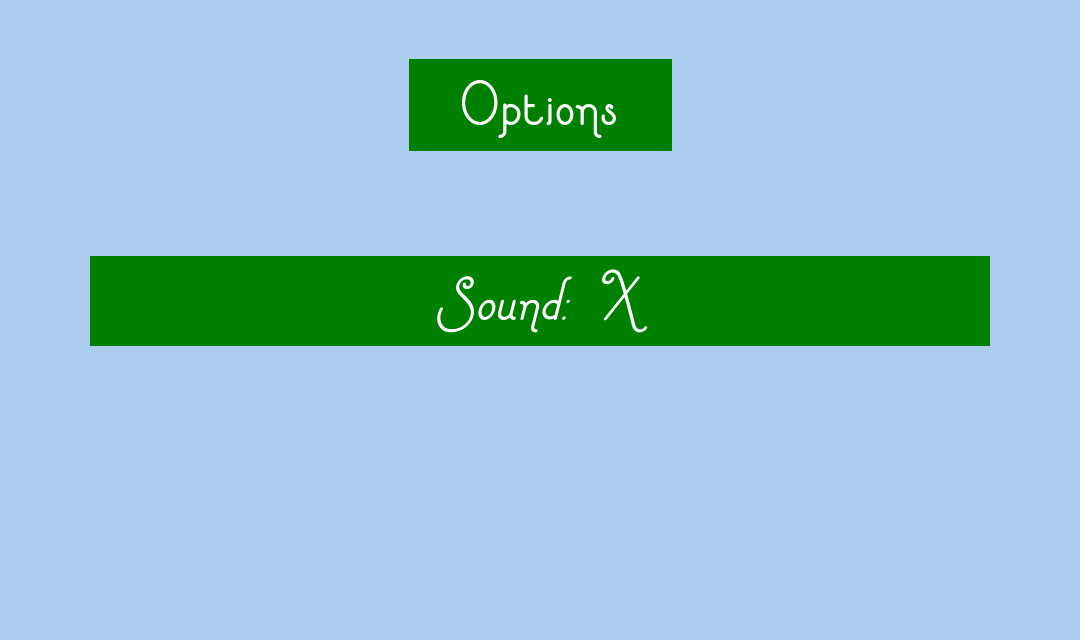
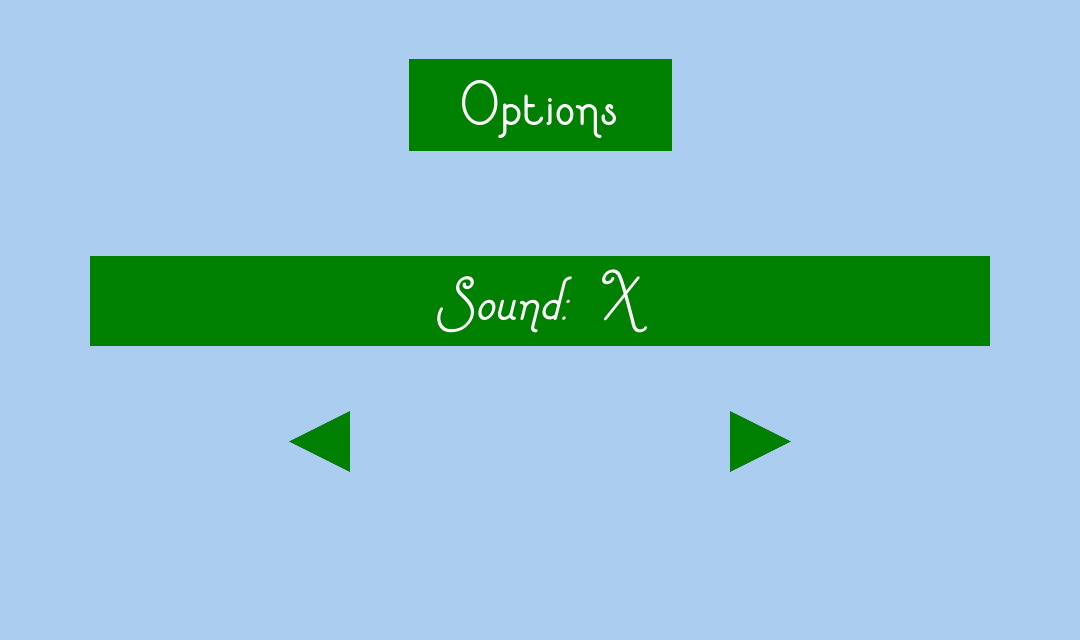
add skins

Changed region(s): [[0.6722, 0.625, 0.7333, 0.75], [0.275, 0.625, 0.3361, 0.75]]

diff --git a/Mice-Eat-Cats.cpp b/Mice-Eat-Cats.cpp
@@ -52,13 +52,16 @@ ALLEGRO_SAMPLE* gameMusic = NULL;
 ALLEGRO_EVENT_QUEUE* event_queue = NULL;
 ALLEGRO_TIMER* timer = NULL;
 
+// Change as The Number of Available Skins Goes Up
+int numSkins = 2;
+
 // Level One Map
 int levelOneMapHor[] = {
-	0
+	4020, 4020, 4020
 };
 
 int levelOneMapVer[] = {
-	0
+	211, 371, 531
 };
 
 int levelOneMapHorHor[] = {
@@ -77,7 +80,7 @@ int levelOneMapHorHorWidth[] = {
 
 int levelTwoMapHor[] = {
 	1080, 1080, 1080, 1080,
-	0, 0, 0, 0
+	-10, -10, -10, -10
 };
 
 int levelTwoMapVer[] = {
@@ -119,9 +122,10 @@ int levelThreeMapHorHorWidth[] = {
 };
 
 int level = 0;
+int skin = 1;
 int numSamples = 1;
 int mouseFrames = 0;
-int levelProgress = 300;
+int levelProgress = 600;
 int numbackgroundPassed = 0;
 bool mouse1 = false;
 float mouseX = -550;
@@ -153,7 +157,7 @@ int redrawFade(ALLEGRO_BITMAP* image, float fadeTransparency)
 	return 0;
 }
 
-int fade(ALLEGRO_BITMAP* image, int framesUpTo312, bool trueForOutFalseForIn, int totalLength, bool levelFade = false)
+int fade(ALLEGRO_BITMAP* image, int framesUpTo312, bool trueForOutFalseForIn, int totalLength, bool levelFade = false, bool optionsFade = false)
 {
 	int frames = 0;
 	float fadeTransparency = 0.0f;
@@ -176,7 +180,13 @@ int fade(ALLEGRO_BITMAP* image, int framesUpTo312, bool trueForOutFalseForIn, in
 				return 0;
 				break;
 			case ALLEGRO_EVENT_TIMER:
-				if (levelFade) {
+				if (optionsFade) {
+					al_draw_bitmap(image, 0, 0, 0);
+					al_draw_bitmap(smallmouse, 390, 411, 0);
+					al_draw_filled_rectangle(0, 0, 1080, 640, al_map_rgba_f(0, 0, 0, fadeTransparency));
+					al_flip_display();
+				}
+				else if (levelFade) {
 					al_draw_bitmap(levelBackground[level], backgroundX, 0, 0);
 					if (backgroundX <= -1 && level != 1) {
 						al_draw_bitmap(levelBackground[level], backgroundX + 1080, 0, 0);
@@ -286,7 +296,54 @@ int check_for_restart_gamemusic()
 	return 0;
 }
 
-bool checkLevel()
+int checkSkin()
+{
+	fstream openfile(user + "\\skin.txt", fstream::in);
+	int text;
+	openfile >> text;
+	openfile.close();
+	skin = text;
+	return 0;
+}
+
+int changeSkin(bool trueForPostFalseForPre)
+{
+	fstream file(user + "\\skin.txt", fstream::out);
+	if (trueForPostFalseForPre == true) {
+		if (skin + 1 > numSkins) {
+			skin = 1;
+		}
+		else {
+			skin += 1;
+		}
+	}
+	else {
+		if (skin - 1 < 1) {
+			skin = numSkins;
+		}
+		else {
+			skin -= 1;
+		}
+	}
+
+	file << skin;
+
+	file.close();
+
+	char fileName[25];
+	sprintf_s(fileName, "smallmouse%d.png", skin);
+	smallmouse = al_load_bitmap(fileName);
+	sprintf_s(fileName, "smallmouse1%d.png", skin);
+	smallmouse1 = al_load_bitmap(fileName);
+	sprintf_s(fileName, "backsmallmouse%d.png", skin);
+	backsmallmouse = al_load_bitmap(fileName);
+	sprintf_s(fileName, "backsmallmouse1%d.png", skin);
+	backsmallmouse1 = al_load_bitmap(fileName);
+
+	return 0;
+}
+
+int checkLevel()
 {
 	fstream openfile(user + "\\level.txt", fstream::in);
 	int text;
@@ -305,7 +362,7 @@ int changeLevel()
 	return 0;
 }
 
-bool checkSound()
+int checkSound()
 {
 	fstream openfile(user + "\\sound.txt", fstream::in);
 	char text;
@@ -322,7 +379,7 @@ bool checkSound()
 	return 0;
 }
 
-bool checkUser()
+int checkUser()
 {
 	for (int x = 0; userVal[x] != NULL; ++x) {
 		user += userVal[x];
@@ -421,6 +478,7 @@ int drawOptions()
 	else {
 		al_draw_bitmap(optionsxbck, 0, 0, 0);
 	}
+	al_draw_bitmap(smallmouse, 390, 411, 0);
 	if (waitingFoot == false) {
 		al_draw_bitmap(foot, 0, footY, 0);
 		if (footY > 507) {
@@ -438,10 +496,10 @@ int options()
 	bool mouse_button_1 = false;
 
 	if (!optionsx) {
-		fade(optionsybck, 0, false, 39);
+		fade(optionsybck, 0, false, 39, false, true);
 	}
 	else {
-		fade(optionsxbck, 0, false, 39);
+		fade(optionsxbck, 0, false, 39, false, true);
 	}
 
 	while (inOptions) {
@@ -469,13 +527,19 @@ int options()
 				if (state.x >= 90 && state.x <= 990 && state.y >= 256 && state.y <= 346) {
 					changeSound();
 				}
+				else if (state.y >= 411 && state.y <= 472 && state.x >= 289 && state.x <= 350) {
+					changeSkin(false);
+				}
+				else if (state.y >= 411 && state.y <= 472 && state.x >= 730 && state.x <= 791) {
+						changeSkin(true);
+				}
 				else {
 					inOptions = false;
 					if (!optionsx) {
-						fade(optionsybck, 0, true, 39);
+						fade(optionsybck, 0, true, 39, false, true);
 					}
 					else {
-						fade(optionsxbck, 0, true, 39);
+						fade(optionsxbck, 0, true, 39, false, true);
 					}
 					return 0;
 				}
@@ -541,7 +605,7 @@ int levelEnd(ALLEGRO_BITMAP* bck)
 
 	bool mouse_button_1 = false;
 
-	levelProgress = 300;
+	levelProgress = 600;
 	backgroundX = 0;
 	mouseFrames = 0;
 	mouse1 = false;
@@ -668,7 +732,7 @@ int pause()
 						fade(levelBackground[level], 0, false, 117);
 						numbackgroundPassed = 0;
 						mouseDir = 'f';
-						levelProgress = 300;
+						levelProgress = 600;
 						backgroundX = 0;
 						mouseFrames = 0;
 						mouse1 = false;
@@ -939,7 +1003,7 @@ int play()
 
 	mouseDir = 'f';
 
-	levelProgress = 300;
+	levelProgress = 600;
 	backgroundX = 0;
 	mouseFrames = 0;
 	mouse1 = false;
@@ -988,6 +1052,8 @@ int play()
 		al_init_timeout(&timeout, 0.06);
 
 		if (level == 0) {
+
+			// ladders
 			if (mouseY == 531 && (
 				abs(levelProgress) >= 20 && abs(levelProgress) <= 70 && mouseDir == 'f' && levelProgress < 0 ||
 				levelProgress >= 80 && levelProgress <= 140 && mouseDir == 'b' ||
@@ -1018,6 +1084,7 @@ int play()
 			else {
 				key_up_allowed = false;
 			}
+
 			for (int i = 0; i < (sizeof(levelOneMapHor) / sizeof(levelOneMapHor[0])); ++i) {
 				if (mouseDir == 'f' && levelProgress == levelOneMapHor[i] && targetMouseY == levelOneMapVer[i]) {
 					key_right = false;
@@ -1072,7 +1139,7 @@ int play()
 					}
 				}
 				else {
-					key_up_allowed = false;
+					key_up_allowed = true;
 					key_down_allowed = true;
 				}
 			}
@@ -1368,6 +1435,7 @@ int main(int argc, char* argv[])
 	appdataErr = _dupenv_s(&userVal, &len, "APPDATA");
 	if (appdataErr) return -1;
 	checkUser();
+	checkSkin();
 	free(userVal);
 
 	checkSound();
@@ -1429,10 +1497,18 @@ int main(int argc, char* argv[])
 	optionsybck = al_load_bitmap("optionsybck.png");
 	optionsxbck = al_load_bitmap("optionsxbck.png");
 	mouse = al_load_bitmap("mouse.png");
-	smallmouse = al_load_bitmap("smallmouse.png");
-	smallmouse1 = al_load_bitmap("smallmouse1.png");
-	backsmallmouse = al_load_bitmap("backsmallmouse.png");
-	backsmallmouse1 = al_load_bitmap("backsmallmouse1.png");
+
+	// load skins
+	char fileName[25];
+	sprintf_s(fileName, "smallmouse%d.png", skin);
+	smallmouse = al_load_bitmap(fileName);
+	sprintf_s(fileName, "smallmouse1%d.png", skin);
+	smallmouse1 = al_load_bitmap(fileName);
+	sprintf_s(fileName, "backsmallmouse%d.png", skin);
+	backsmallmouse = al_load_bitmap(fileName);
+	sprintf_s(fileName, "backsmallmouse1%d.png", skin);
+	backsmallmouse1 = al_load_bitmap(fileName);
+
 	upmouse = al_load_bitmap("upmouse.png");
 	bckground = al_load_bitmap("bckground.jpeg");
 	menubck = al_load_bitmap("menubck.png");
